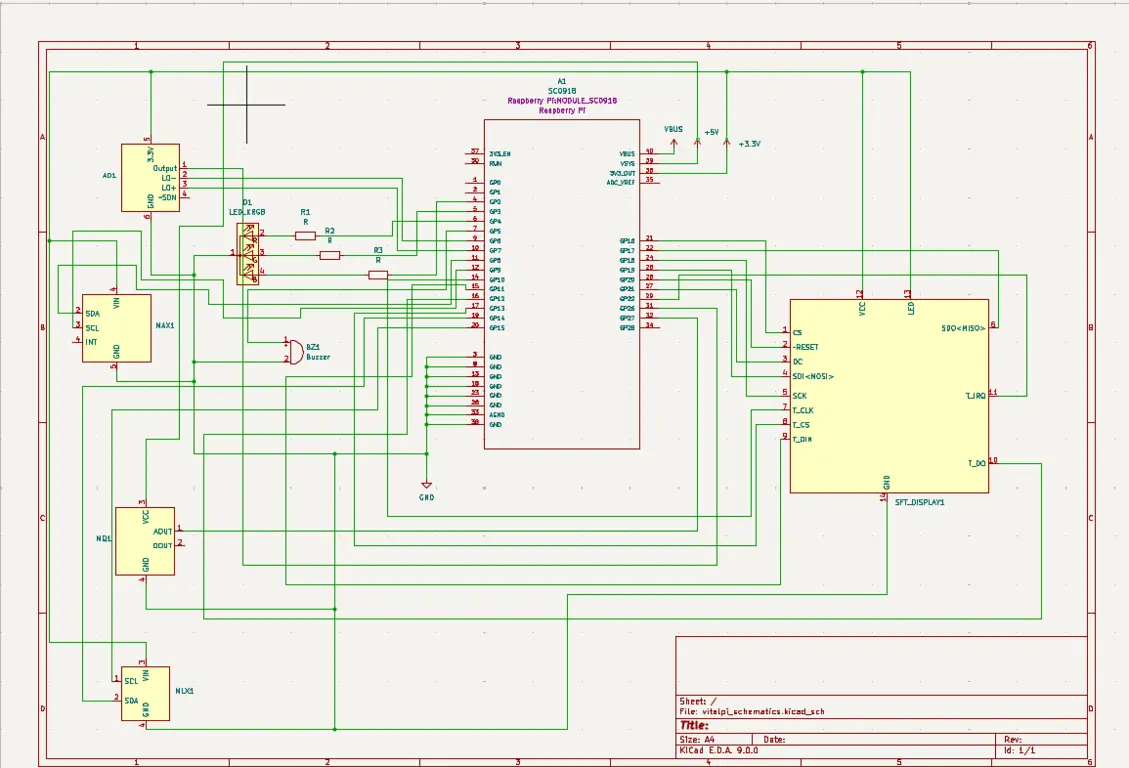
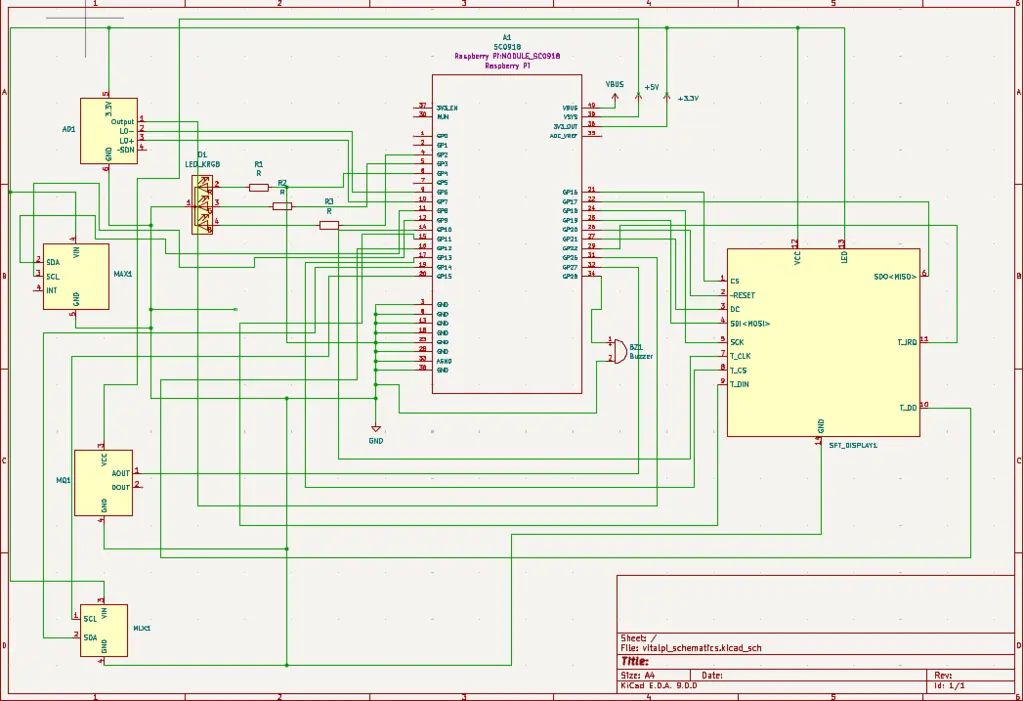
project/roi_bachynskyi Hardware Milestone

Changed region(s): [[0.0, 0.0, 1.0, 1.0]]

diff --git a/website/versioned_docs/version-fils_en/project/2025/roi.bachynskyi/index.md b/website/versioned_docs/version-fils_en/project/2025/roi.bachynskyi/index.md
@@ -111,7 +111,7 @@ This diagram reflects the concept of connections of every part in this project.
 
 *Role:* Audible notification system
 
-*Connections:* GPIO5
+*Connections:* GPIO28
 
 *Function:* Sounds alerts
 
@@ -132,7 +132,15 @@ This diagram reflects the concept of connections of every part in this project.
 
 ### Week 5 - 11 May
 
+I imported all my work-in-progress materials to the project's repository where every component was tested except MAX30102, which I was trying to replace that time. I made all the connections with respect to the uploaded KiCAD schematics.
+
+![HardwareWeek1](hardware_1.webp)
+
 ### Week 12 - 18 May
+
+My goal was to unify all the code that I had had before and make one program with several tasks from it. What is more, I have started to work on the UI of the project. The biggest issue I faced was handling the signal from BPE sensor which was too difficult to set up.
+
+![HardwareWeek2](hardware_2.webp)
 
 ### Week 19 - 25 May
 
@@ -140,7 +148,7 @@ This diagram reflects the concept of connections of every part in this project.
 
 VitalPi utilizes a Raspberry Pi Pico 2W microcontroller as its processing core and webbite communicator, paired with a TFT LCD touchscreen (240×320px) for user interaction. Health monitoring is provided through an AD8232 ECG sensor module for cardiac activity, an MLX90614ESF infrared temperature sensor for contactless temperature readings, and a GY-MAX30102 optical heart rate and blood oxygen sensor. Environmental monitoring comes from an MQ135 gas sensor configured with a 10kΩ/20kΩ resistor voltage divider. User notifications are delivered via an RGB LED (with 220Ω current-limiting resistors) for visual alerts and a passive buzzer for audible warnings.
 
-![Hardware](hardware.webp)
+![Hardware](hardware_2.webp)
 
 ### Schematics
 
